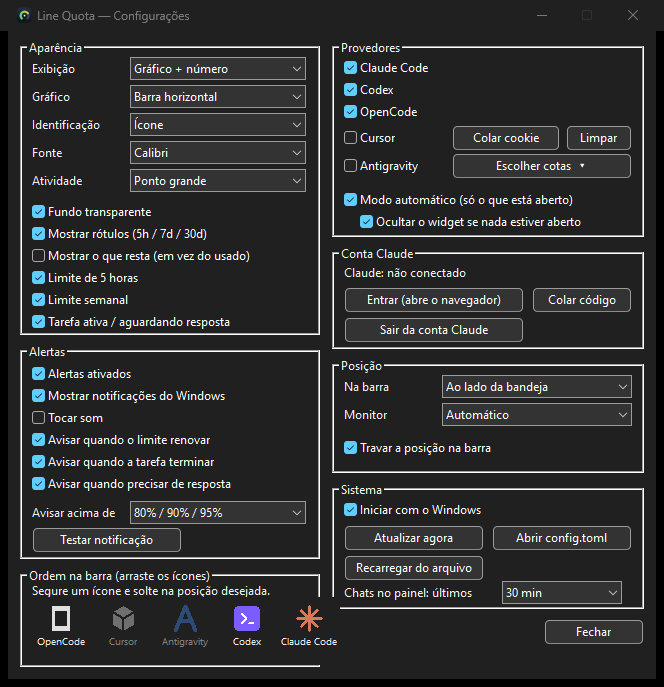
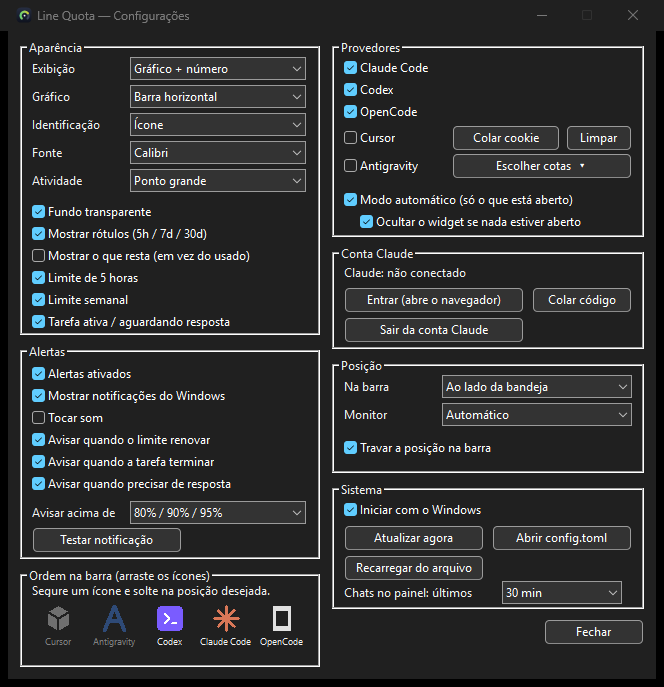
Faixa de ordem: cabe dentro da caixa (não cobre mais a borda)

Changed region(s): [[0.0602, 0.8559, 0.512, 0.9476]]

diff --git a/crates/ui/src/win/order_strip.rs b/crates/ui/src/win/order_strip.rs
@@ -5,7 +5,7 @@ use super::*;
 use std::sync::Mutex;
 use windows::Win32::UI::Input::KeyboardAndMouse::{TrackMouseEvent, TRACKMOUSEEVENT, TME_LEAVE};
 
-const TILE_W: i32 = 62;
+const TILE_W: i32 = 56;
 const TILE_H: i32 = 68;
 const ICON: i32 = 26;
 
@@ -51,7 +51,7 @@ unsafe fn paint(hwnd: HWND) {
     let old_bmp = SelectObject(mem, bmp);
     let dark = DARK.load(Ordering::Relaxed);
     fill(mem, &rc, bg_color(dark));
-    let font = CreateFontW(-scale(10), 0, 0, 0, 400, 0, 0, 0, DEFAULT_CHARSET.0 as u32, OUT_DEFAULT_PRECIS.0 as u32,
+    let font = CreateFontW(-scale(9), 0, 0, 0, 400, 0, 0, 0, DEFAULT_CHARSET.0 as u32, OUT_DEFAULT_PRECIS.0 as u32,
         CLIP_DEFAULT_PRECIS.0 as u32, CLEARTYPE_QUALITY.0 as u32, 0, w!("Segoe UI"));
     let old_font = SelectObject(mem, font);
     SetBkMode(mem, TRANSPARENT);
